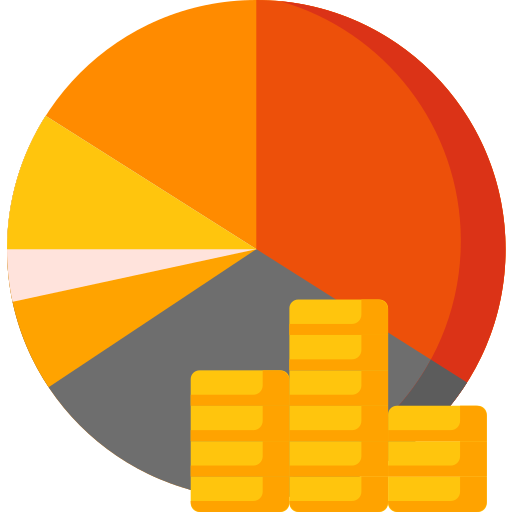
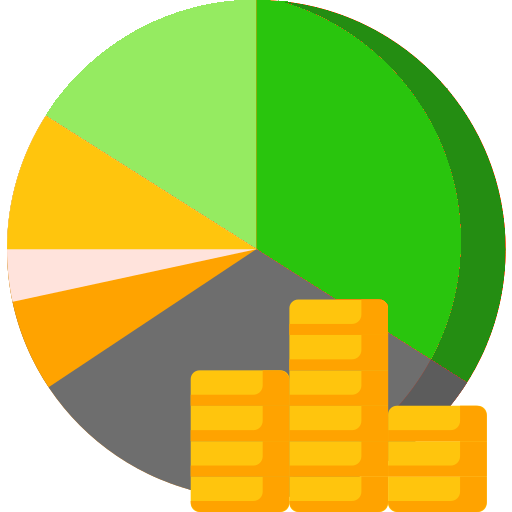
Restyled navigation bar

diff --git a/frontend/src/Components/NavBar/Navbar.js b/frontend/src/Components/NavBar/Navbar.js
@@ -1,68 +1,100 @@
-import React from "react";
+import React, { useState } from "react";
 import "./Navbar.style.css";
 import budget_logo from "../../budget.png";
 import UserProfile from "./UserProfile.js";
 import { Typography, Box, Button } from "@mui/material";
 import styled from "@emotion/styled";
 import { Link } from "react-router-dom";
+import Tabs from "@mui/material/Tabs";
+import Tab from "@mui/material/Tab";
+
+function LinkTab(props) {
+  return (
+    <Link to={props.href}>
+      <Tab component="a" {...props} />
+    </Link>
+  );
+}
 
 const NavBarLink = styled(Link)(({ theme }) => ({
   textDecoration: "none",
 }));
 
 const NavBarItem = styled(Typography)(({ theme }) => ({
-  color: theme.palette.primary.light,
   listStyle: "none",
-  fontSize: "1rem",
-  textTransform: "uppercase",
   cursor: "pointer",
+  textTransform: "uppercase",
   "&:hover": {
     color: theme.palette.primary.main,
     textShadow: ".25px 0px .1px, -.25px 0px .1px",
   },
 }));
 
-const NavBarContainer = styled(Box)(({theme}) => ({
-  display: 'flex',
+const NavBarContainer = styled(Box)(({ theme }) => ({
+  display: "flex",
   boxShadow: theme.shadows.elevation_1,
-  padding: '1rem',
-  alignItems: 'center',
-  justifyContent: 'center',
-  background: theme.palette.primary.background
+  padding: "1rem",
+  alignItems: "center",
+  justifyContent: "center",
+  background: theme.palette.primary.background,
 }));
 
-const AddRecordBtn = styled(Button)(({theme}) => ({
+const AddRecordBtn = styled(Button)(({ theme }) => ({
   backgroundColor: theme.palette.primary.main,
-  color: '#fff',
-  borderRadius: '2em',
-  padding: '0.5rem 0.9rem',
-  fontSize: '0.8rem',
+  color: "#fff",
+  borderRadius: "2em",
+  padding: "0.5rem 0.9rem",
+  fontSize: "0.8rem",
   "&:hover": {
     backgroundColor: theme.palette.primary.light,
-  }
+  },
 }));
 
-function NavBar() {
+const PAGE_TO_TAB = {
+  Home: 0,
+  Accounts: 1,
+  Transactions: 2,
+};
+
+function NavBar({ page }) {
+  const [tab, setTab] = useState(PAGE_TO_TAB[page]);
+  const handleChange = (event, newValue) => {
+    setTab(newValue);
+  };
+
   return (
     <NavBarContainer>
       <Box className="flex-centered nav-bar-content">
-        <Box className="flex-centered nav-bar-menu">
+        <Box style={{ display: "flex", alignItems: "center", height: "100%" }}>
           <img className="nav-bar-logo nav-bar-link" src={budget_logo} />
-          <NavBarLink to="/">
-            <NavBarItem>Dashboard</NavBarItem>
-          </NavBarLink>
-          <NavBarLink to="/accounts">
-            <NavBarItem>Accounts</NavBarItem>
-          </NavBarLink>
-          <NavBarLink to="/transactions">
-            <NavBarItem>Transactions</NavBarItem>
-          </NavBarLink>
-          <NavBarLink to="/">
-            <NavBarItem>Analytics</NavBarItem>
-          </NavBarLink>
+          <Typography
+            style={{
+              display: "inline",
+              textAlign: "center",
+              fontFamily: "Kalam",
+              fontSize: "1.8rem",
+              marginLeft: "0.7rem",
+              color: "#248d12",
+            }}
+          >
+            Monee
+          </Typography>
         </Box>
-        <Box className="flex-centered">
-          <AddRecordBtn >+Record</AddRecordBtn>
+        <Box className="flex-centered nav-bar-menu">
+          <Box style={{display: 'flex', justifyContent: 'center'}}>
+            <Tabs
+              value={tab}
+              onChange={handleChange}
+              aria-label="nav tabs example"
+            >
+              <LinkTab label="Home" href="/" />
+              <LinkTab label="Accounts" href="/accounts" />
+              <LinkTab label="Transactions" href="/transactions" />
+            </Tabs>
+          </Box>
+        </Box>
+        <Box className="flex-centered" style={{marginLeft: 'auto'}}>
+          {/*<AddRecordBtn>+Record</AddRecordBtn>*/}
           <UserProfile />
         </Box>
       </Box>

diff --git a/frontend/src/App.js b/frontend/src/App.js
@@ -3,7 +3,7 @@ import React from "react";
 import ClipLoader from "react-spinners/ClipLoader";
 import WebFont from "webfontloader";
 
-import {theme} from './theme';
+import { theme } from "./theme";
 import Home from "./Pages/Home.js";
 import Transactions from "./Pages/Transactions/Transactions.js";
 import budget_logo from "./budget.png";
@@ -12,6 +12,7 @@ import { keycloak } from "./keycloak.js";
 import urlJoin from "url-join";
 import { GET_request } from "./Utils/network.js";
 import { ThemeProvider } from "@emotion/react";
+import SideMenuLayout from "./Pages/SideMenuLayout";
 
 class App extends React.Component {
   constructor(props) {
@@ -37,7 +38,7 @@ class App extends React.Component {
             process.env.REACT_APP_BACKEND_ENDPOINT,
             "update_bank_links"
           );
-          GET_request(endpoint, { username: value['username'] }).then(
+          GET_request(endpoint, { username: value["username"] }).then(
             (data) => {
               this.handleLoadingComplete();
             }
@@ -52,7 +53,7 @@ class App extends React.Component {
   componentDidMount() {
     WebFont.load({
       google: {
-        families: ["Montserrat:300,400,500,600,700,800,900"],
+        families: ["Montserrat:300,400,500,600,700,800,900", "Kalam:400"],
       },
     });
   }

diff --git a/frontend/src/theme.js b/frontend/src/theme.js
@@ -5,6 +5,10 @@ export const theme = createTheme({
     fontFamily: 'Montserrat',
     small: {
       fontSize: '0.8rem'
+    },
+    h1: {
+      fontSize: '1.2rem',
+      color: '#555',
     }
   },
   shadows: {
@@ -16,8 +20,9 @@ export const theme = createTheme({
   },
   palette: {
     primary: {
-      light: '#757ce8',
-      main: '#3f50b5',
+      light: '#29c50d',
+      main: '#248d12',
+      accent: '#ffc50d',
       dark: '#002884',
       background: 'white',
     }

diff --git a/frontend/src/Components/DropDownBase/constants.js b/frontend/src/Components/DropDownBase/constants.js
@@ -3,7 +3,6 @@ export const getBaseStyles = () => (
     Button: {
       width: "100%",
       height: "2.5rem",
-      borderColor: "inherit",
       textTransform: "none",
     },
     Menu: {
@@ -11,7 +10,6 @@ export const getBaseStyles = () => (
       width: "100%",
       zIndex: "1050",
       border: "1px solid",
-      borderColor: "inherit",
       borderRadius: "0.4rem",
       backgroundColor: "white",
       left: '50%',

diff --git a/frontend/src/Pages/SideMenuLayout.js b/frontend/src/Pages/SideMenuLayout.js
@@ -11,7 +11,7 @@ class SideMenuLayout extends React.Component {
   render() {
     return (
       <>
-        <NavBar/>
+        <NavBar page={this.props.page}/>
         <div className="main-container">
           <div className="side-menu">
             <div className="side-menu-title">

diff --git a/frontend/src/Pages/Home.js b/frontend/src/Pages/Home.js
@@ -4,7 +4,7 @@ import SideMenuLayout from "./SideMenuLayout.js";
 class Home extends React.Component {
   render() {
     return (
-      <SideMenuLayout sideMenuTitle="Accounts"/>
+      <SideMenuLayout page="Home" sideMenuTitle="Accounts"/>
     );
   }
 }

diff --git a/frontend/src/Components/NavBar/Navbar.style.css b/frontend/src/Components/NavBar/Navbar.style.css
@@ -7,12 +7,12 @@
 .nav-bar-menu {
     margin: 0;
     padding: 0;
-    margin-right: auto;
-    gap: 1rem;
+    display: flex;
+    flex: 1;
 }
 
 .nav-bar-content {
-    max-width: 1500px;
+    max-width: 1100px;
     width: 100%;
 }
 

diff --git a/frontend/src/Pages/Accounts/Accounts.js b/frontend/src/Pages/Accounts/Accounts.js
@@ -42,6 +42,7 @@ function Accounts() {
   return (
     <>
       <SideMenuLayout
+        page="Accounts"
         sideMenuTitle="Accounts"
         sideMenuContent={
           <div onClick={showDialog} className="add-account-btn">

diff --git a/frontend/src/Pages/Transactions/Transactions.js b/frontend/src/Pages/Transactions/Transactions.js
@@ -50,6 +50,7 @@ function Transactions() {
 
   return (
     <SideMenuLayout
+      page="Transactions"
       sideMenuTitle="Transactions"
       content={
         <div

diff --git a/frontend/src/Pages/style.css b/frontend/src/Pages/style.css
@@ -1,6 +1,6 @@
 .main-container {
   width: 100%;
-  max-width: 1500px;
+  max-width: 1100px;
   padding-top: 1.4rem;
   align-self: center;
   display: flex;
